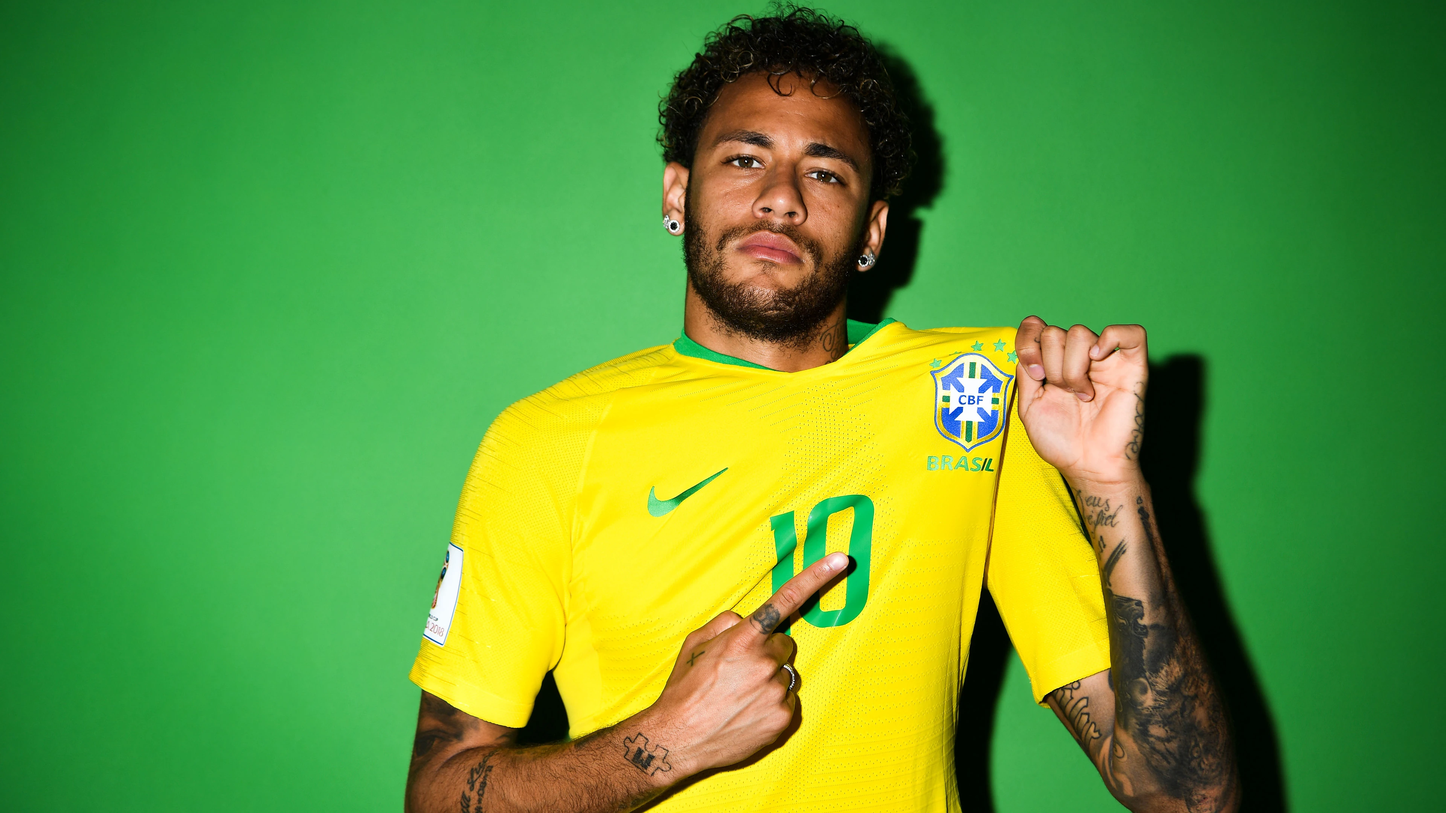
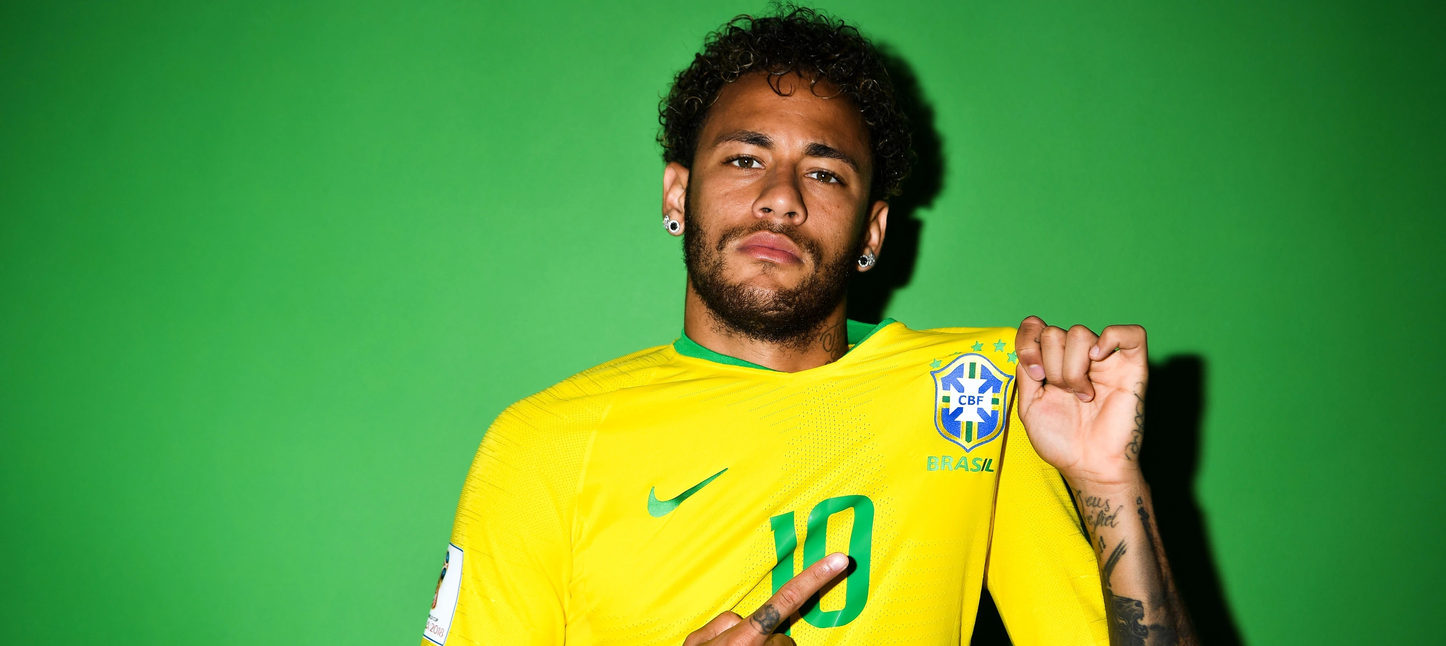
se cambiaron colores y posicion del titulo neymarjr

Changed region(s): [[0.1562, 0.0, 0.9062, 1.0]]

diff --git a/styles3.css b/styles3.css
@@ -1,0 +1,231 @@
+*,
+*::before,
+*::after {
+  padding: 0;
+  margin: 0;
+  box-sizing: border-box;
+}
+
+
+
+.bodi {
+  font-family: "SF Pro Text";
+  font-size: 20px;
+  height: 10vh;
+  display: flex;
+  justify-content: space-between;
+  align-items: center;
+  background: hsl(0, 0%, 8%);
+  background: hsl(0, 0%, 0%);
+}
+
+button {
+  all: unset;
+}
+
+nav {
+  width: 100%;
+  max-width: 1265px;
+  display: flex;
+  justify-content:space-between;
+  align-items: center;
+  padding: 24px 40px;
+}
+
+ul {
+  display: flex;
+  gap: 1.2rem;
+  list-style: none;
+}
+
+.link {
+  text-decoration: none;
+  color: #ffffff;
+  font-size: 18px;
+  padding: 0.5rem;
+  position: relative;
+}
+
+.logo {
+  width: 42px;
+  height: 25x;
+}
+
+.menu-icon {
+  display: none;
+  width: 24px;
+  height: 24px;
+}
+
+/* Media Query for Responsive behavior of the Navbar */
+@media only screen and (max-width: 600px) {
+  .menu-icon {
+    display: block;
+  }
+
+  nav ul {
+    display: none;
+  }
+}
+
+/* Link and Logo Hover Effects */
+.link::before {
+  content: "";
+  position: absolute;
+  width: 100%;
+  height: 2px;
+  background: #fff;
+  border-radius: 5px;
+  transform: scaleX(0);
+  transition: all 0.6s ease;
+}
+
+.link::before {
+  bottom: 0;
+  left: 0;
+}
+
+.link:hover::before {
+  transform: scaleX(1);
+}
+
+.logo {
+  transition: 0.35s ease;
+}
+.logo:hover {
+  opacity: 0.5;
+}
+
+.contenedor{
+  position: relative;
+  display: inline-block;
+  text-align: center;
+
+}
+
+
+.centrado{
+  position: absolute;
+  top: 50%;
+  left: 50%;
+  transform: translate(-50%, -50%);
+  color: #ffffff;
+  font-family:fantasy;
+  font-size: 80px;
+  background-image: url(imagenes/thebest2.jpg);
+  background-repeat: no-repeat;
+  background-position: center;
+  color: transparent;
+  background-clip: text;
+  
+}
+
+.img{
+  width: 100%;
+  object-fit: cover;
+  aspect-ratio: 21/9;
+  filter: grayscale(100%);
+}
+
+*,
+*::before,
+*::after {
+  margin: 0;
+  padding: 0;
+  box-sizing: border-box;
+}
+
+
+.bodi2 {
+  font-family: "Gothic A1", sans-serif;
+  height: 120vh;
+  color: hsl(0, 0%, 100%);
+  display: flex;
+  justify-content: center;
+  align-items: flex-end;
+}
+
+footer {
+  width: 100%;
+  background-color: #111010;
+}
+
+input,
+a,
+button,
+li {
+  all: unset;
+  font: inherit;
+}
+a,
+button {
+  cursor: pointer;
+}
+
+footer {
+  padding: 3.5rem clamp(3rem, 6vw, 14rem);
+}
+.footer-wrapper {
+  max-width: 90rem;
+  margin: 0 auto;
+}
+
+.footer-section {
+  display: flex;
+  justify-content: space-between;
+  flex-wrap: wrap;
+  gap: 3rem;
+}
+
+.footer-subscribe {
+  max-width: clamp(20rem, 33vw, 33rem);
+}
+.footer-subscribe > h2 {
+  font-size: clamp(1.5rem, 2.3vw, 2.25rem);
+}
+.input-box {
+  display: flex;
+  max-width: 100%;
+  padding-block: 1rem;
+  border-bottom: 1px solid black;
+  margin-top: 3rem;
+}
+.input-box > input {
+  flex-grow: 1;
+}
+
+.footer-nav {
+  display: flex;
+  flex-wrap: wrap;
+  gap: clamp(3rem, 4vw, 7rem);
+}
+.footer-nav > div > h3 {
+  font-size: 1rem;
+}
+.footer-nav > div > ul {
+  display: flex;
+  flex-direction: column;
+  gap: 0.5rem;
+  margin-top: 2rem;
+}
+.footer-nav > div li {
+  font-size: 1.125rem;
+  font-weight: 700;
+  transition: opacity 200ms ease;
+}
+.footer-nav > div li:hover {
+  opacity: 0.5;
+}
+
+.footer-copyright {
+  display: flex;
+  flex-wrap: wrap;
+  font-size: 0.875rem;
+  margin-top: 5rem;
+}
+
+@media (width <= 53rem) {
+  .footer-subscribe {
+    max-width: 100%;
+  }
+}

diff --git a/Neymar.html b/Neymar.html
@@ -22,9 +22,8 @@
         <li><a href="Neymar.html" class="link">Neymar</a></li>
         <li><a href="Messi.html" class="link">Messi</a></li>
         <li><a href="#" class="link">Cristiano R</a></li>
-        <li><a href="#" class="link">Cuaresma</a></li>
+        <li><a href="#" class="link">Quaresma</a></li>
         <li><a href="#" class="link">James R</a></li>
-        <li><a href="#" class="link">Cuaresma</a></li>
         <li><a href="#" class="link">Ronaldinho</a></li>
         <li><a href="#" class="link">Zidane</a></li>
         <li><a href="#" class="link">R Carlos</a></li>
@@ -40,7 +39,7 @@
 
     <!--imagen central-->
     <div class="contenedor">
-      <img class="img" src="imagenes/neymarpg1___.jpg" align="center" alt="centrado" width="20%" height="20%">
+      <img class="img" src="imagenes/neymarpg1_.jpg" align="center" alt="centrado" width="20%" height="20%">
       <div class="centrado">NEYMAR JR</div>
     </div>
     <BR></BR>

diff --git a/index.html b/index.html
@@ -22,9 +22,8 @@
         <li><a href="Neymar.html" class="link">Neymar</a></li>
         <li><a href="Messi.html" class="link">Messi</a></li>
         <li><a href="#" class="link">Cristiano R</a></li>
-        <li><a href="#" class="link">Cuaresma</a></li>
+        <li><a href="#" class="link">Quaresma</a></li>
         <li><a href="#" class="link">James R</a></li>
-        <li><a href="#" class="link">Cuaresma</a></li>
         <li><a href="#" class="link">Ronaldinho</a></li>
         <li><a href="#" class="link">Zidane</a></li>
         <li><a href="#" class="link">R Carlos</a></li>

diff --git a/styles2.css b/styles2.css
@@ -105,18 +105,19 @@ ul {
 
 
 .centrado{
-  position: absolute;
-  top: 50%;
+  position:absolute;
+  top: 75%;
   left: 50%;
   transform: translate(-50%, -50%);
   color: #ffffff;
   font-family:fantasy;
-  font-size: 80px;
-  background-image: url(imagenes/thebest2.jpg);
+  font-size: 112px;
+  background-image: url(imagenes/gradientney1.jpeg);
   background-repeat: no-repeat;
   background-position: center;
   color: transparent;
   background-clip: text;
+  -webkit-text-stroke: 0px black;
   
 }
 
